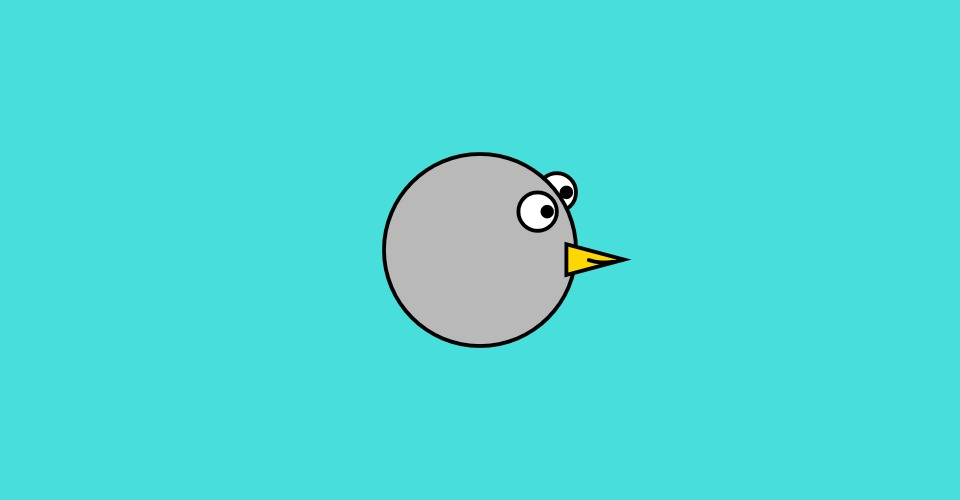
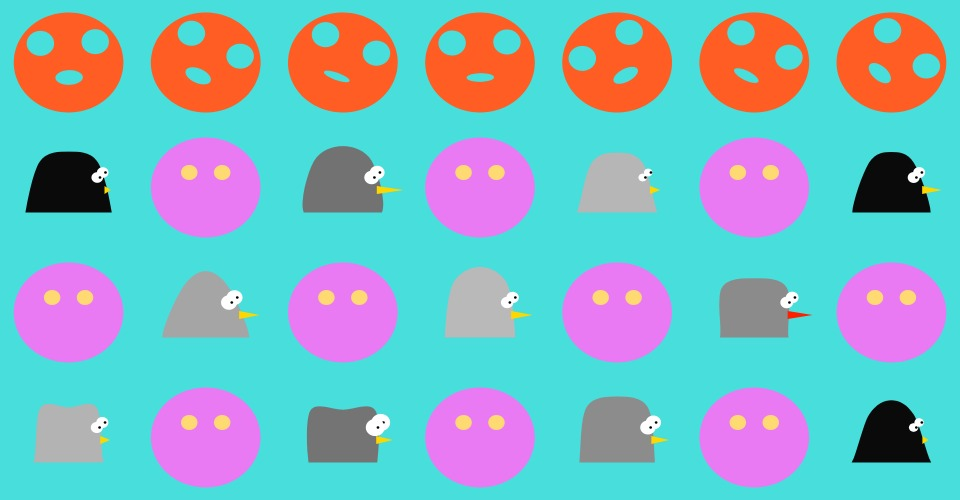
colours update

diff --git a/face_code.js b/face_code.js
@@ -16,33 +16,104 @@
 
 
 
-function MyFace(){
+function MyFace(eyeSizeing, X1, X3, Y3, X2, TP, Beak, GullColor, beakColor){
+  angleMode(RADIANS);
+
   
+  angleMode(DEGREES);
+
+  let x1= -1;
+  let y1 = 7;
+
+  let x2 = -5;
+  let y2 = 5;
+
+  let x3 = -4;
+  let y3 = -5;
+
+  let x4 = 4;
+  let y4 = -5;
+
+  let x5 = 5;
+  let y5 = 5;
+
+  let x6 = 1;
+  let y6 = 7;
+
+point(X1, y1);
+point(X2, y2);
+point(X3, Y3);
+point(0, TP); // top point
+point(-X3, Y3);
+point(-X2, y5);
+point(-X1, y6);
+strokeWeight(0.1);
+
+fill(GullColor);
+beginShape()
+curveVertex(X1, y1);
+curveVertex(X2, y2);
+
+curveVertex(X3, Y3);
+curveVertex(0, TP); // top point
+curveVertex(-X3, Y3);
+curveVertex(-X2, y5);
+curveVertex(-X1, y6);
+
+endShape();
+
+
+
   let centerX = 0;
   let distactBetweenEyes = 5
   let ten = 4.5;
-  fill(255);
-  ellipse(centerX+4,-3,2,2);
-  fill(0);
-  ellipse(centerX+4.5,-3,0.5,0.5);
-  fill(185);
-  ellipse(0,0,10,10)
-  fill(255, 215, 0);
-  triangle(0+ten, -0.3, 3+ten, 0.5, 0+ten, 1.3);
-  fill(255);
-  ellipse(centerX+3,-2,2,2);
-  fill(0);
-  ellipse(centerX+3.5,-2,0.5,0.5);
+  let eyesizer = 2;
   
+  fill(255);
+  ellipse(-X3+1,-3,eyeSizeing,eyeSizeing);
+  fill(0);
+  ellipse(-X3+1.5,-3,0.5,0.5);
+  
+  fill(255, beakColor, 0);
+  triangle((-X2-X3)/2, -0.3, (-X2/2-X3/2)+Beak+3, 0.5, (-X2-X3)/2, 1.3);
+  fill(255);
+  ellipse(-X3,-2,eyeSizeing,eyeSizeing);
+  fill(0);
+  ellipse(-X3+0.5,-2,0.5,0.5);
+ 
   noFill();
-  arc(6.5, -0.1, 3, 1.5, 1, 2.5);
+  push();
+  translate((-X2/2-X3/2)+Beak+2, -0.4 );
+  arc(0, 0, 5, 2, 50, 150);
+  pop();
+
+
+
+  // let w = 4; // Width of the canvas divided by 10
+  // let h = 10; // Height of the canvas divided by 10
+  // let r = 1.5; // Corner radius divided by 10
+  // let o = -1;
+
+  // beginShape();
+  // // Top-right corner
+  // vertex(w - r, 0);
+  // bezierVertex(w - r, 0, w, 0, w, r);
+
   
+  // // Bottom-right corner
+  // vertex(w, h - r);
+  // bezierVertex(w, h - r, w, h, w - r, h);
+  // // Bottom-left corner
+  // vertex(r, h);
+  // bezierVertex(r, h, 0, h, 0, h - r);
+  // // Top-left corner
+  // vertex(0, r);
+  // bezierVertex(0, r, 0, 0, r, 0);
 
-  if(eye_value >= 2){
-    centerX += 4;
-    fill(0)
-  }
-
+  // vertex(w+o - r, -2);
+  // bezierVertex(w+o - r, -2, w+o, -2, w+o, r);
+  
+  // endShape(CLOSE);
 }
 
 

diff --git a/editor.html b/editor.html
@@ -37,7 +37,7 @@
         <div class="inner" id="controls" height="500px">
             <table>
                 <tr>
-                    <td>Setting 1</td>
+                    <td>Beak lenght</td>
                     <td id="slider1Container"></td>
                 </tr>
                 <tr>
@@ -53,23 +53,23 @@
                     <td id="slider4Container"></td>
                 </tr>
                 <tr>
-                    <td>Setting 5</td>
+                    <td>Eye size</td>
                     <td id="slider5Container"></td>
                 </tr>
                 <tr>
-                    <td>Setting 6</td>
+                    <td>Forehead width</td>
                     <td id="slider6Container"></td>
                 </tr>
                 <tr>
-                    <td>Setting 7</td>
+                    <td>Forehead height</td>
                     <td id="slider7Container"></td>
                 </tr>
                 <tr>
-                    <td>Setting 8</td>
+                    <td>Bottom width</td>
                     <td id="slider8Container"></td>
                 </tr>
                 <tr>
-                    <td>Setting 9</td>
+                    <td>Bottom curve</td>
                     <td id="slider9Container"></td>
                 </tr>
                 <tr>

diff --git a/example_arrangement.js b/example_arrangement.js
@@ -77,8 +77,39 @@ function draw () {
           simplePurpleFace();
         }
         else {
-          thinness_value = random(0, 100);
-          blockyFace(thinness_value);
+          let eyeSizeing = random(1.5, 3.5);
+          let X1 = random(0, -10);
+          let X2 = random(-6, -8);
+          let X3 = random(-4, -6);
+          let Y3 = random(-4, -6);
+          let TP = random(-5, -10);
+          let Beak = random(-2, 2);
+
+          push();
+          let GullColor = random(180, 100);
+          let SpinnerValue = random(0, 100);
+          let beakColor = 215;
+          
+          if (SpinnerValue > 90){
+          GullColor = 10
+          
+          }
+          else if (SpinnerValue < 5){
+            beakColor = 30
+          }
+          else {
+            GullColor = random(200, 100);
+            beakColor = 215
+          }
+
+            
+            
+          
+          pop();
+
+          
+          
+          MyFace(eyeSizeing, X1, X3, Y3, X2, TP, Beak, GullColor, beakColor);
         }
         pop();
       }

diff --git a/editor.js b/editor.js
@@ -101,7 +101,17 @@ function draw () {
   }
 
   if (mode == '4') {
-    MyFace();
+    let eyeSizeing = (map(s5, 0, 100, 1.5, 3.5));
+    let X1 = (map(s9, 0, 100, 0, -10));
+    let X2 = (map(s8, 0, 100, -6, -8));
+    let X3 = (map(s6, 0, 100, -4, -6));
+    let Y3 = (map(s7, 0, 100, -4, -6));
+    let TP = (map(s10, 0, 100, -5, -10));
+    let Beak = (map(s1, 0, 100, -2, 2));
+    let GullColor = (map(s2, 0, 255, 200, 0));
+    
+    MyFace(eyeSizeing, X1, X3, Y3, X2, TP, Beak, GullColor);
+    
      }
 
   pop();
